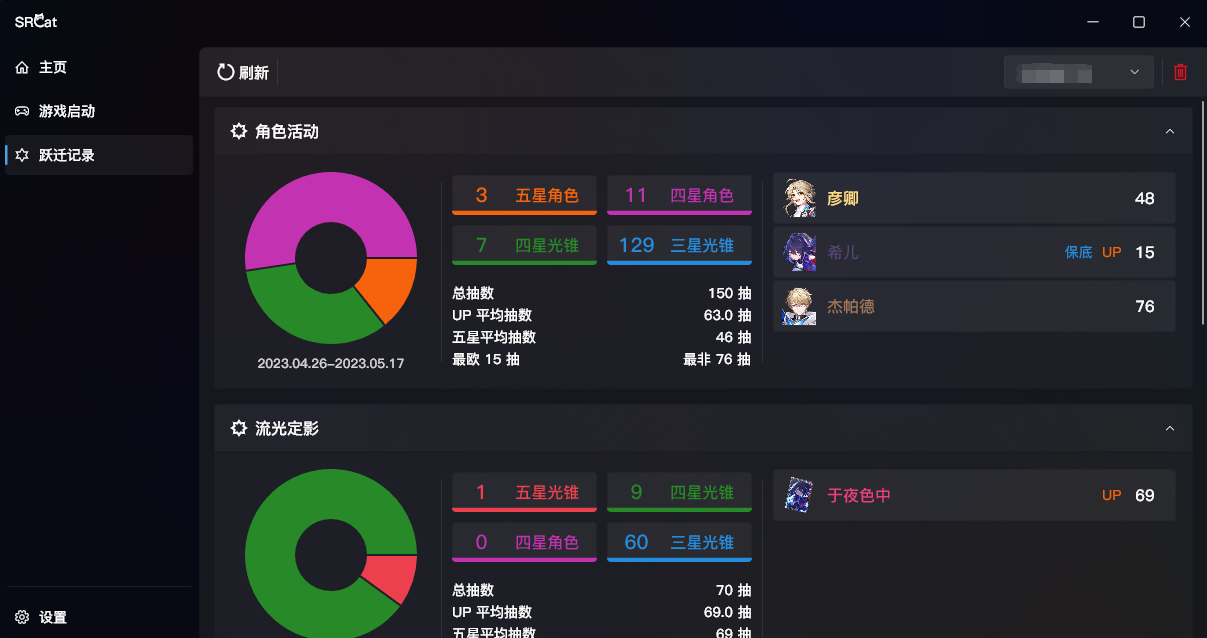
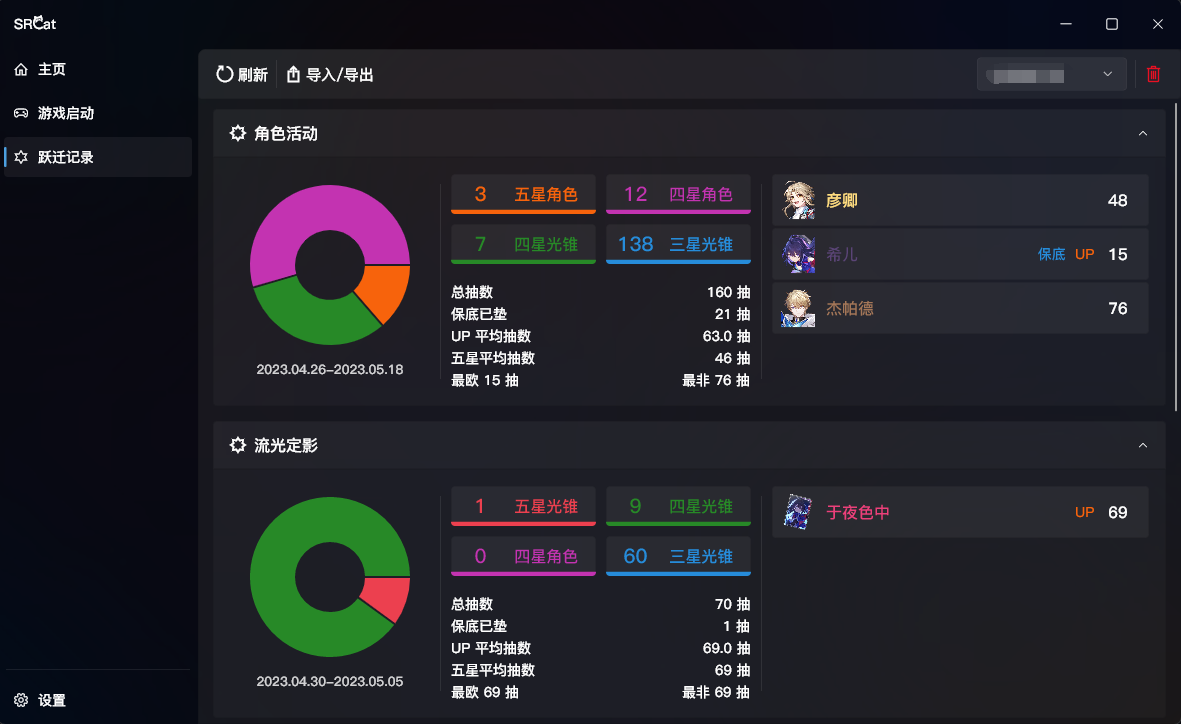
🍞 update readme

diff --git a/README.md b/README.md
@@ -22,7 +22,7 @@
     - [x] 多账号切换
 - [ ] 跃迁记录
     - [x] 多账号支持
-    - [ ] 数据导入/导出
+    - [x] 数据导入/导出 (请注意：导入的数据需要严格遵循 [SRGF](https://uigf.org/zh/standards/SRGF.html) 才能正常导入)
     - [ ] 以 `代理模式`、`SToken` 刷新跃迁记录
     - [x] 保底计算
     - [x] 光锥基本数据补全
